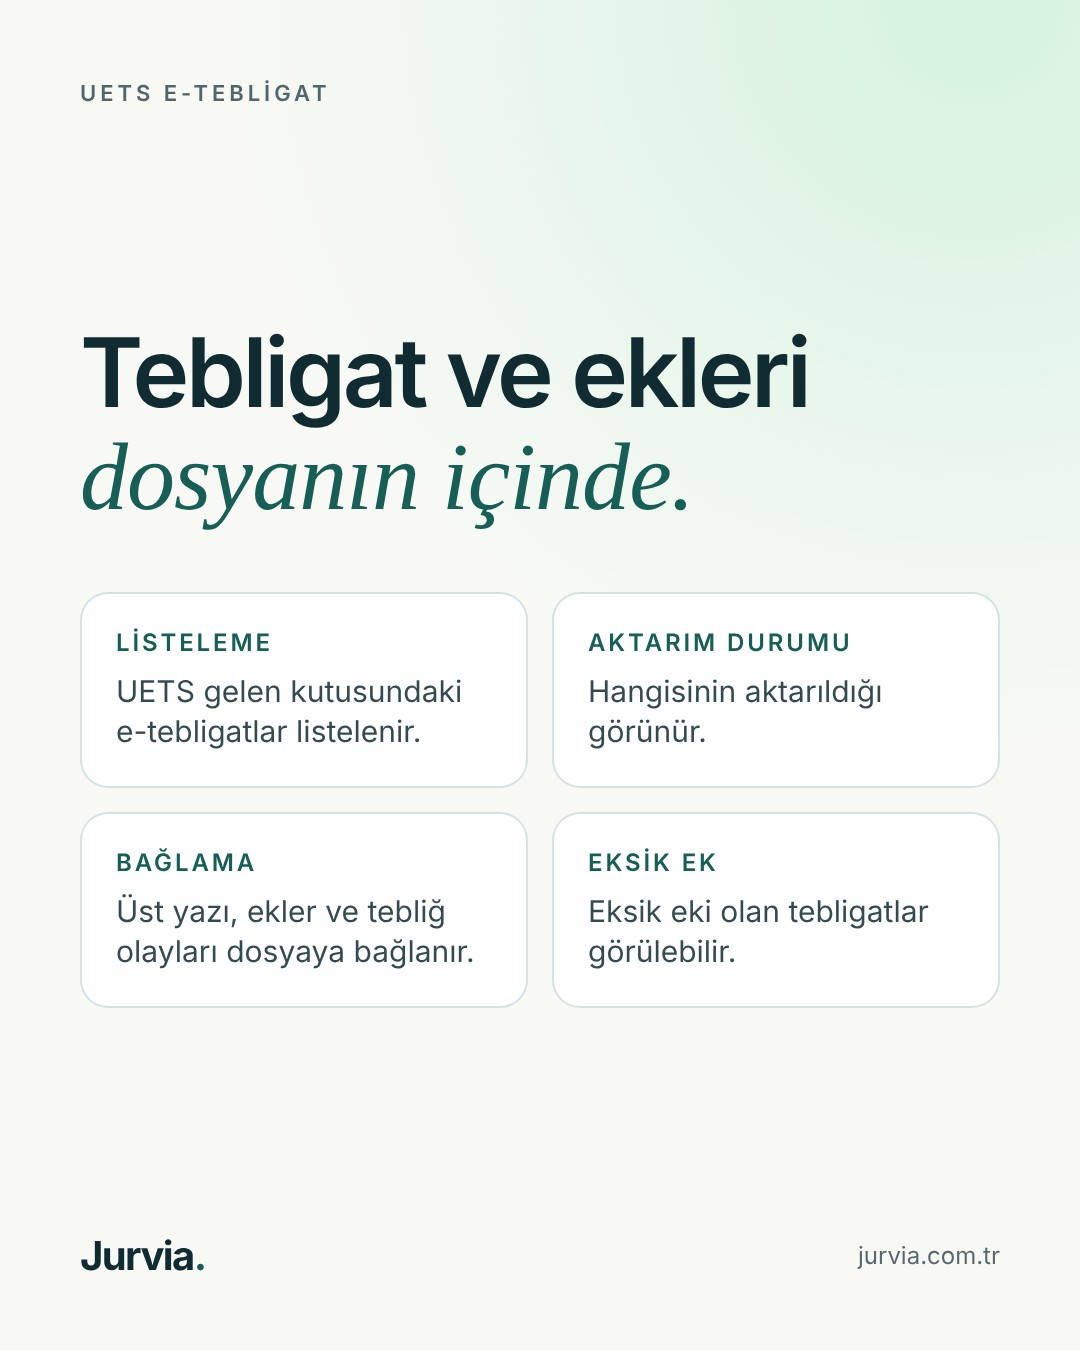
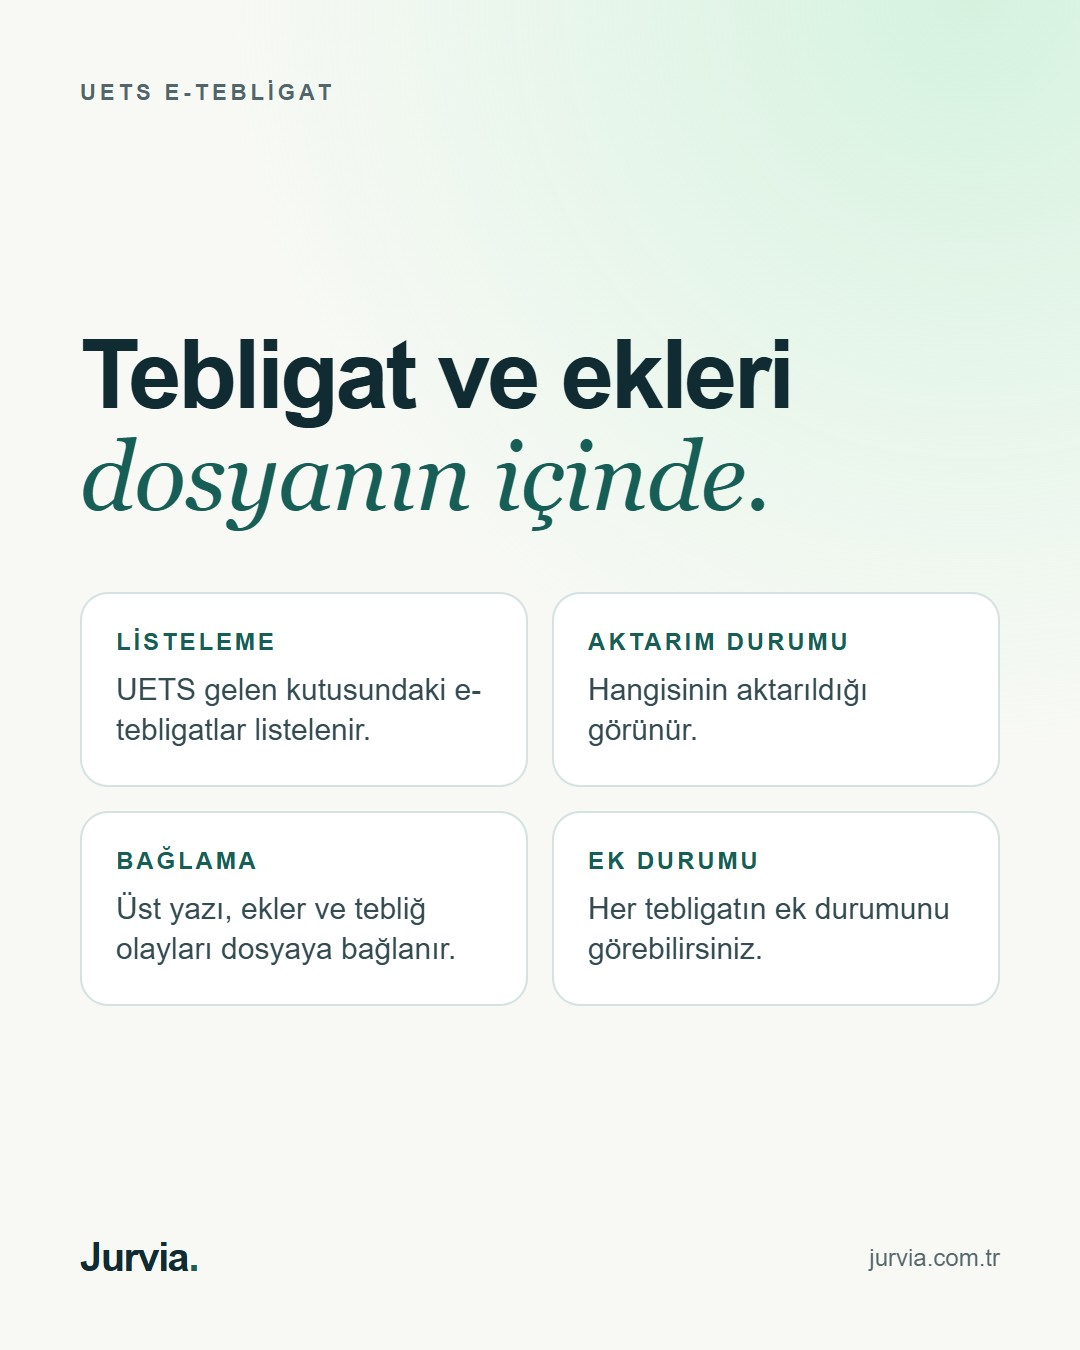
Bring in queued UYAP/UETS post updates and product info
Carry over the unpushed local changes from 19-20 November onto the
current main: refreshed text and visuals for the seven queued posts
from 26 November to 15 December, automatic UYAP sync and XLSX/HTML
attachment details, the masked identity wording, and the client
portal, document request and financial record topics.

Posts that were already published are left unchanged. Document
requests stay restricted because portal uploads are off in production;
financial records are now an available topic.

diff --git a/content/urun-bilgileri.md b/content/urun-bilgileri.md
@@ -18,7 +18,8 @@ Gönderilerde **yalnız bu dosyadaki bilgiler** kullanılır. Burada olmayan bir
 - Evraklar seçilir; Jurvia'da zaten bulunan evraklar ayrıca gösterilir, kalanlar eşleşen Jurvia dosyasına aktarılır.
 - Eşleşen dosya yoksa yeni dosya açılır. İstenirse evraklar ZIP olarak indirilebilir.
 - Yeni açılan dosyada müvekkil henüz seçilmediyse dosyada uyarı ve "Müvekkili seç" kısayolu görünür.
-- Aktarım yalnız kullanıcı başlattığında yapılır; Jurvia kayıtları UYAP'tan kendiliğinden güncellenmez.
+- Manuel aktarımı kullanıcı başlatır. Otomatik UYAP senkronu varsayılan olarak kapalıdır. Kullanıcı açıp kaynak hesabı ve hedef çalışma alanını onayladığında açık UYAP oturumuyla çalışır. Tarih aralığı seçilmediyse ilk tur başlangıç listesini oluşturur; sonraki turlar yeni evrakları aktarır. UETS için arka plan taraması yapılmaz.
+- XLSX UYAP aktarımıyla Jurvia’ya alınır ve özgün biçiminde indirilebilir. UYAP’ın indirmeye izin verdiği HTML ekler ZIP ile alınabilir.
 
 ### uets-tebligat — status: mevcut — sayfa: /features/uyap-uets
 - Eklenti UETS gelen kutusundaki e-tebligatları listeler, hangisinin Jurvia'ya aktarıldığını gösterir.
@@ -27,7 +28,7 @@ Gönderilerde **yalnız bu dosyadaki bilgiler** kullanılır. Burada olmayan bir
 
 ### gizlilik — status: mevcut — sayfa: /privacy
 - Eklenti UYAP/UETS kullanıcı adı ve şifresini, e-imza PIN'ini ve çerezleri okumaz, saklamaz, göndermez.
-- Tarafların TC kimlik ve vergi numaraları yalnız eklentide maskeli görünür, Jurvia'ya gönderilmeden önce çıkarılır.
+- Tarafların TC kimlik ve vergi numaraları yalnız eklentide maskeli görünür, yapılandırılmış taraf ve safahat alanlarından aktarım öncesi çıkarılır. Özgün evrakın içeriği korunur.
 - Kayıtlar yalnız giriş yapılan Jurvia hesabına ve seçilen dosyaya gider.
 - Eklentide reklam, analiz aracı veya uzaktan yüklenen kod yoktur.
 - Eklenti Chrome Web Store'dan kurulur; kullanmak zorunlu değildir.
@@ -109,10 +110,14 @@ Gönderilerde **yalnız bu dosyadaki bilgiler** kullanılır. Burada olmayan bir
 ### sure-onerisi — status: yol-haritasi
 - Kurallar gereği (süre hesabı ve mevzuat yazılmaz) bu konu otomatik gönderilerde kullanılmaz.
 
-### musteri-portali — status: mevcut — sayfa: /
+### musteri-portali — status: mevcut — sayfa: /pricing
 - Avukat, dosyadaki belgelerden seçtiğini müvekkilin portalında yayımlar; yayımlanmayan belge ve iç çalışma notları portalda görünmez.
 - Müvekkil kendi portalında yalnız kendisiyle paylaşılan dosyaları ve yayımlanan belgeleri görür.
 - Yayımlanan belgenin sürümü ve avukatın eklediği "sonraki adım" notu belgenin yanında görünür.
-- Müvekkilin portaldan belge yüklemesi henüz kullanıma açık değildir (bkz. belge-talepleri); gönderide yazılmaz.
-### belge-talepleri — status: yol-haritasi
-### mali-hareketler — status: yol-haritasi
+- Daveti kabul eden müvekkil yalnız kendisine yayımlanan gelişmeleri ve seçili belge sürümlerini görür. Temel paylaşım Başlangıç paketinin kapsamındadır.
+
+### belge-talepleri — status: sinirli — sayfa: /pricing
+- Belge talepleri Uzman ve üzeri paketlerin kapsamındadır. Production ortamında portaldan belge yükleme kapalıdır. Yükleme için gönderi hazırlamayın.
+
+### mali-hareketler — status: mevcut — sayfa: /pricing
+- Temel tahsilat ve masraf kaydı Başlangıç kapsamındadır. Uzman ve üzeri paketlerde avukat seçtiği mali dökümü portala yayımlayabilir. Müvekkil kendisine yayımlanan dökümü görür.
